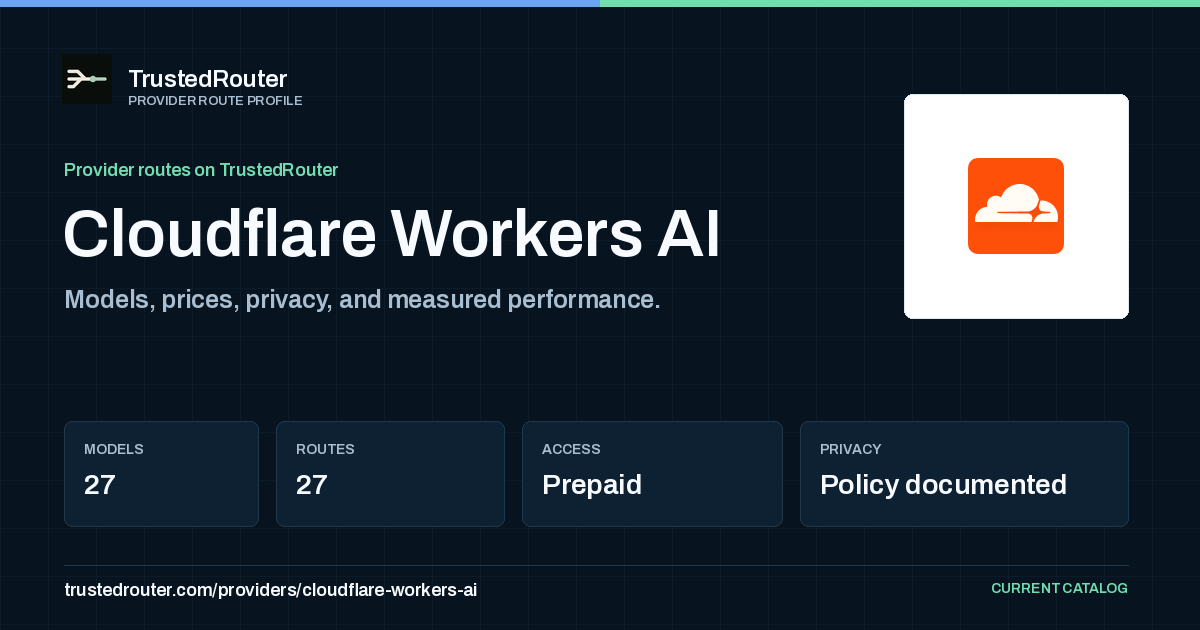
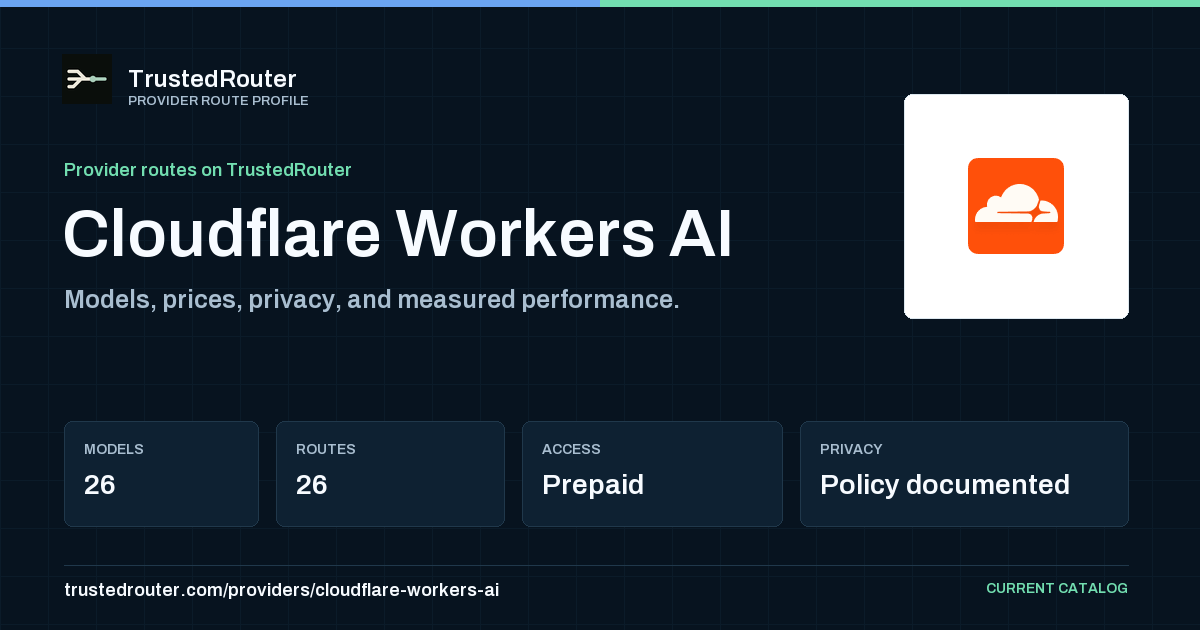
Quarantine nonstreaming Cloudflare Llama Guard route (#1011)
* Quarantine nonstreaming Cloudflare Llama Guard route

* Refresh Cloudflare provider card

---------

diff --git a/src/trusted_router/catalog_ingest.py b/src/trusted_router/catalog_ingest.py
@@ -303,6 +303,21 @@ _AUTHOR_TO_PROVIDER_SLUG: dict[str, str] = {
 }
 
 _PROVIDER_DEPRECATED_UPSTREAM_MODELS: dict[str, frozenset[str]] = {
+    # Cloudflare's OpenAI-compatible endpoint serves Llama Guard 3 only for
+    # non-streaming chat. The exact request used by provider rotation succeeds
+    # with stream=false and returns HTTP 400 "Invalid input" with stream=true.
+    # TrustedRouter's public chat surface currently has no endpoint-level
+    # streaming capability flag, so advertising this route would knowingly
+    # expose a broken streaming path. Quarantine only this provider/model pair
+    # until that capability is represented and enforced end to end. Direct
+    # verification on 2026-09-01 matched 72 synthetic failures and two organic
+    # failures, with no successful routed samples.
+    "cloudflare-workers-ai": frozenset(
+        {
+            "meta-llama/llama-guard-3-8b",
+            "@cf/meta/llama-guard-3-8b",
+        }
+    ),
     # atlas-cloud (onboarded #244) advertises these openai/* models but its
     # router returns HTTP 400 "router not found" — 100% synthetic failure / 0
     # success as of 2026-07-20. Provider-scoped: the same model ids on

diff --git a/tests/test_new_provider_catalogs.py b/tests/test_new_provider_catalogs.py
@@ -147,6 +147,10 @@ def test_new_provider_manifests_create_only_eligible_routes() -> None:
         and endpoint.upstream_id == "moonshotai/kimi-k3"
         for endpoint in cloudflare
     )
+    assert not any(
+        endpoint.model_id == "meta-llama/llama-guard-3-8b"
+        for endpoint in cloudflare
+    )
     assert all(
         endpoint.prompt_price_microdollars_per_million_tokens > 0
         and endpoint.completion_price_microdollars_per_million_tokens > 0
